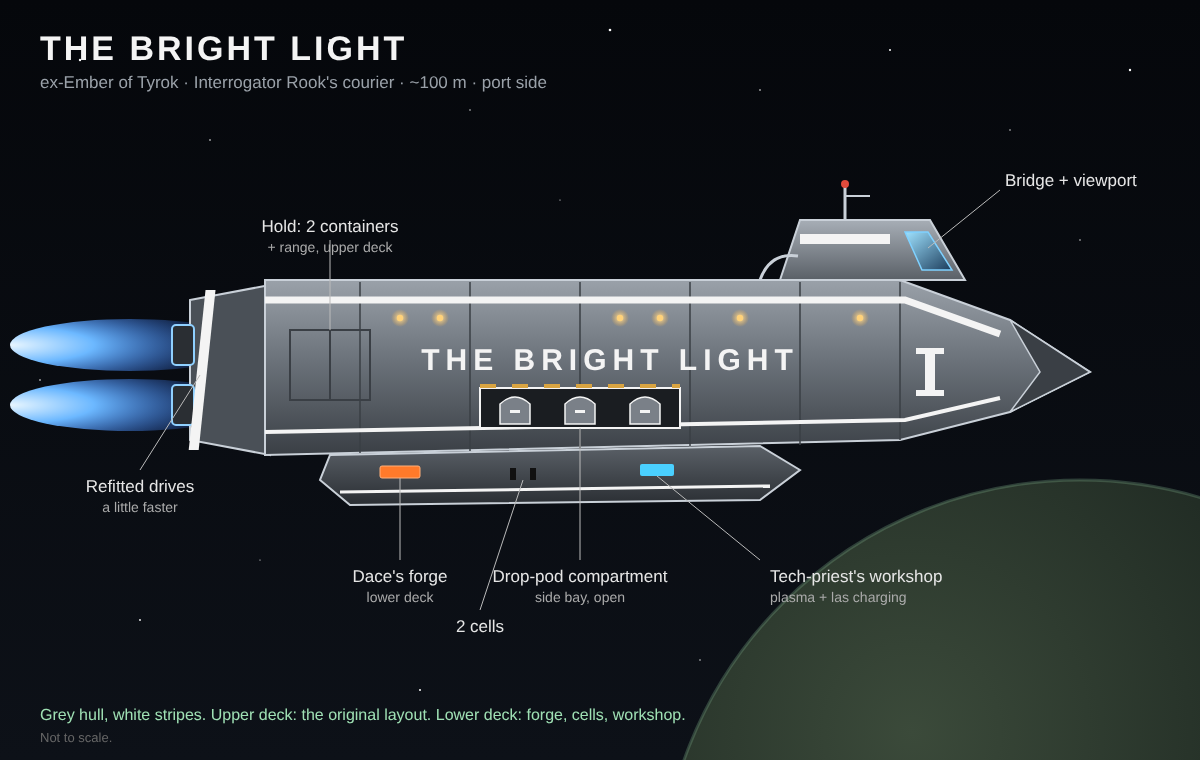
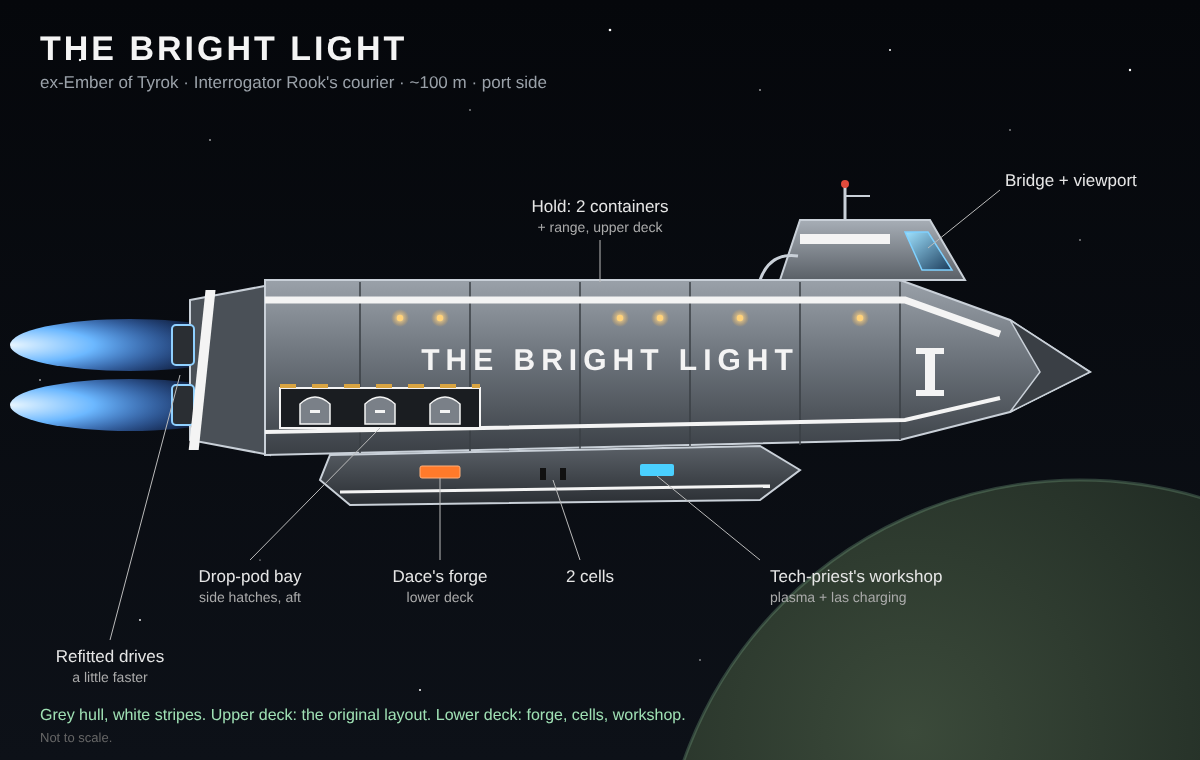
Ash on Ostrava: Bright Light refit deck plan (both decks), exterior matched
Claude-Session: https://claude.ai/code/session_01EeRjrJij5vv1xcFxxRRh8d

diff --git a/campaigns/ash-on-ostrava/ash-on-ostrava-campaign-sheet.md b/campaigns/ash-on-ostrava/ash-on-ostrava-campaign-sheet.md
@@ -309,8 +309,12 @@ Companions train **one thing a day for +1.0**; it takes their whole day.
   the original layout (bridge, briefing room, cabins, bunk room, galley, armoury,
   medicae, shrine nook, cargo office, hold). **New small lower deck:** **Dace's
   forge**, **2 cells**, and the **new tech-priest's workshop** with a **plasma
-  cell charging station**, plus **las charging stations**. Picture:
-  `maps/bright-light-exterior.svg`.
+  cell charging station**, plus **las charging stations**. Upper deck changes:
+  the old forge spot is now the **sparring mat**, the old short range lane is the
+  **stair down**, the hold holds **both containers** (port) and the **medium
+  range, 3 lanes** (starboard, along the hold), and the old brig is the
+  **drop-pod bay** (side hatches, port, aft). Pictures: `maps/bright-light.png`
+  (both decks side by side) and `maps/bright-light-exterior.png`.
   Crew: the Light (Tamsin, Kell, Varga, Dace, Hollis, Brenner, Isk, Tavi,
   Morcant, Sallow, Corvane), the new tech-priest (not yet met at the table), and
   a few new hires still to fill (at least a pilot, deck hands). No Ottrick,
